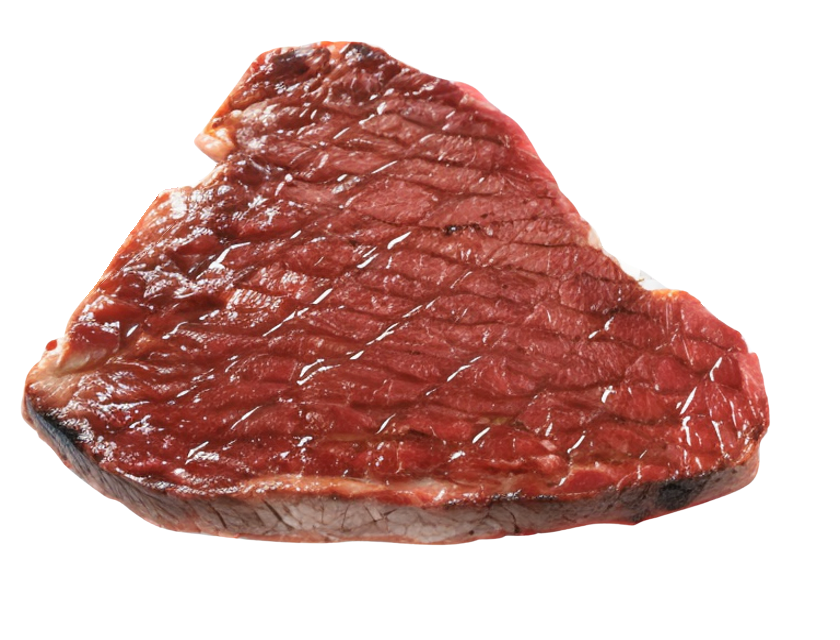
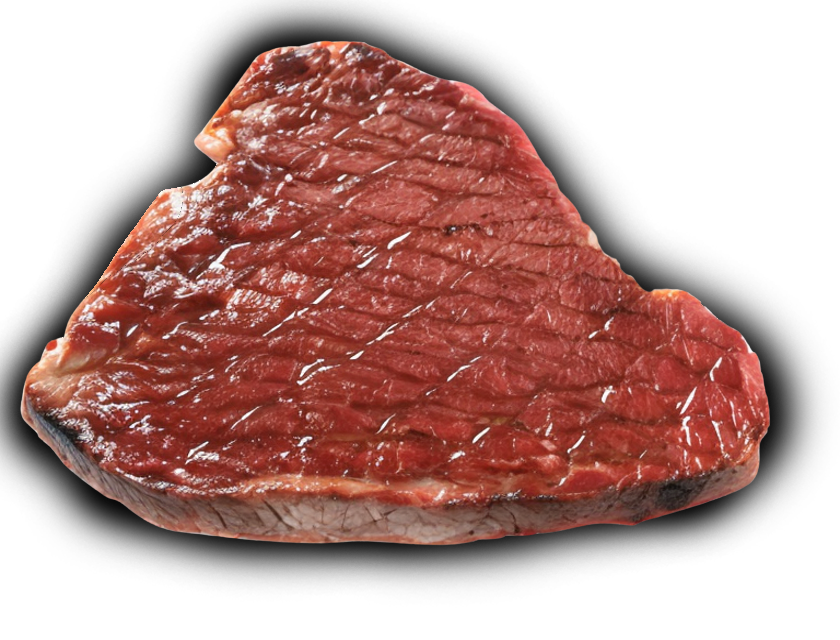
update image meat add shadow

Changed region(s): [[0.0, 0.0, 0.9905, 0.9375]]

diff --git a/BaseClient.java b/BaseClient.java
@@ -40,7 +40,7 @@ class Meat extends Thread{
     private int meat_left = 0;
     private int meat_rigth = 0;
     private boolean meat_on = true;
-    private String type_meat = "01";
+    private String type_meat = "001";
     private String rank_meat = "rare";
     private int sted_meat = 1;
     private String image_meat = "./image/meat/"+this.type_meat+"/"+this.rank_meat+this.sted_meat+".png";
